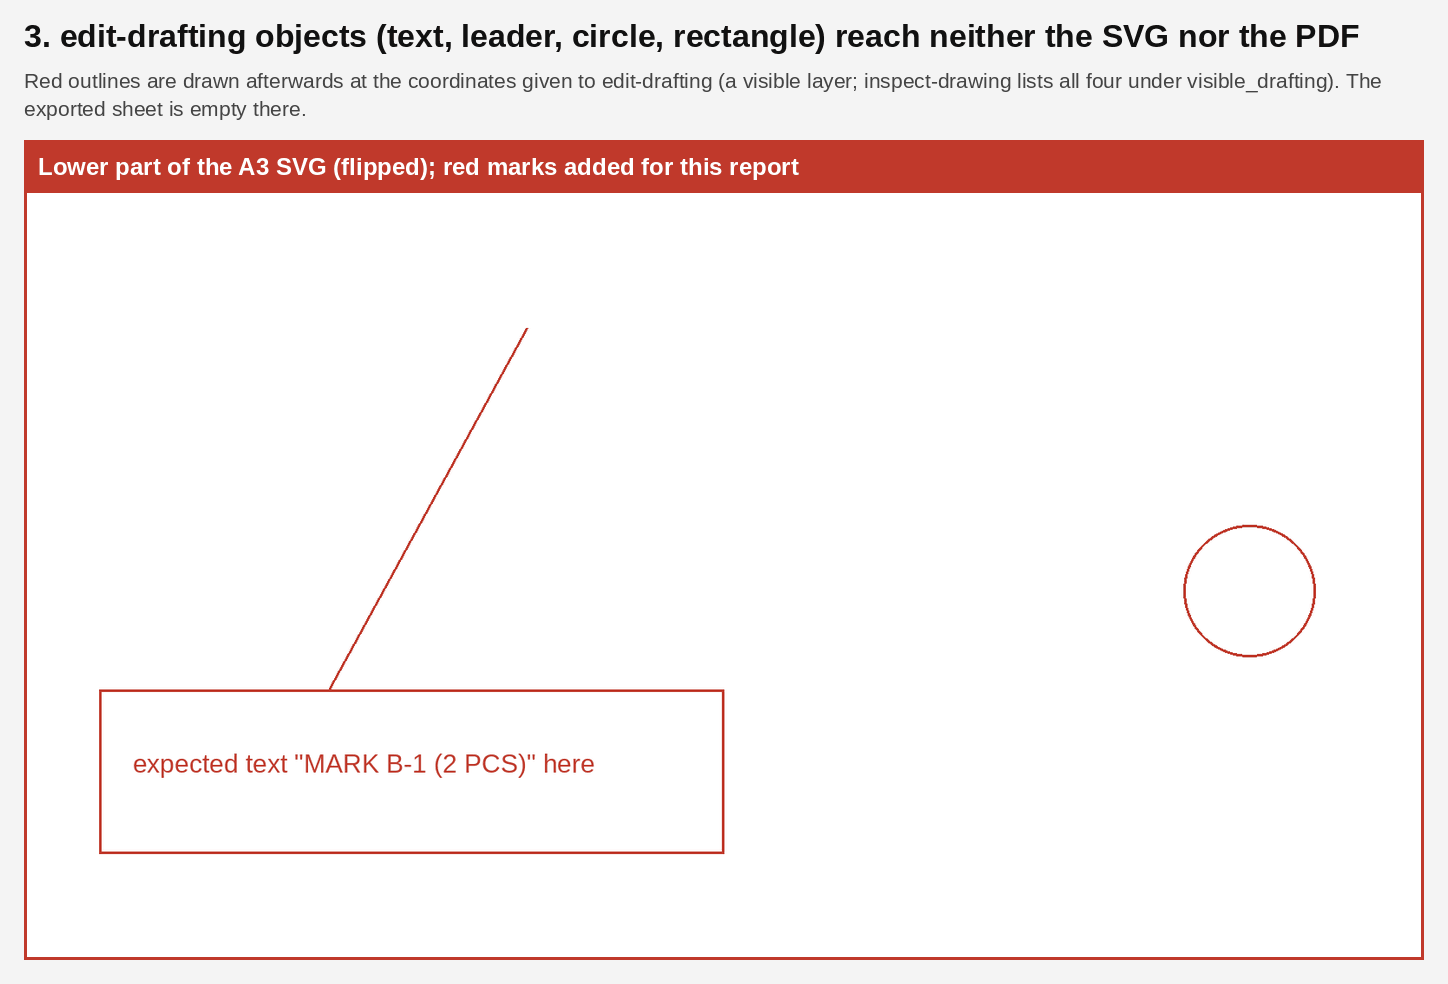
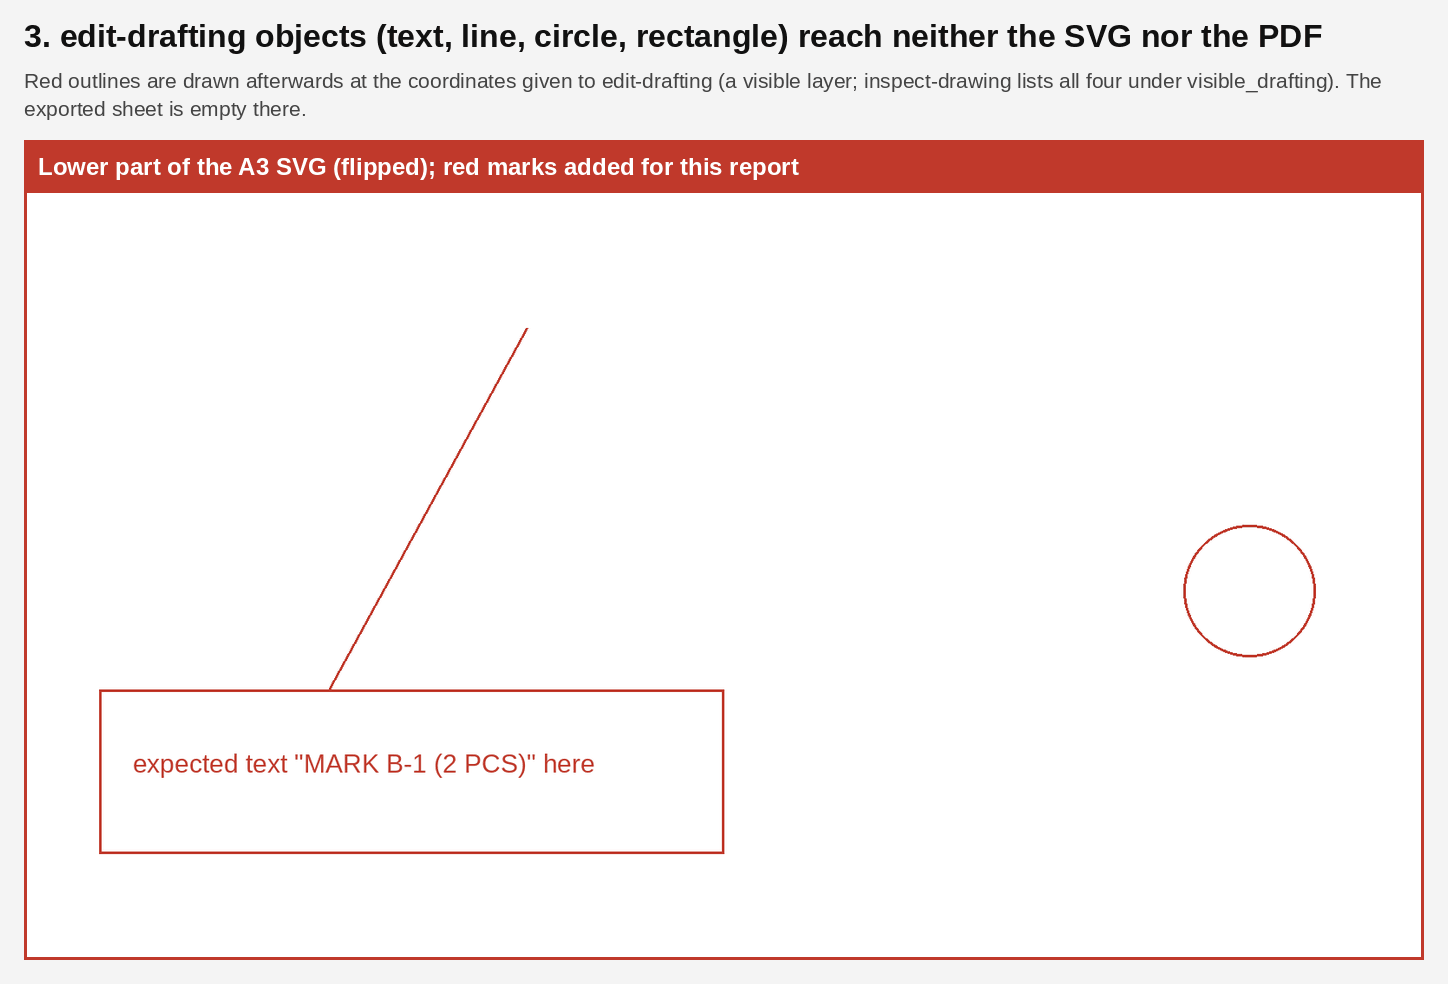
docs: name the drafting kinds and the blank-gap source precisely
Review of #459: edit-drafting has no leader kind, the evidence draws a
line, so finding 3 and the image 05 caption now name the kinds actually
used. The blank-gap advance for characters without a glyph is stated only
in the svg.rs doc comments, not in any contract, so the README cites those
instead. Only image 05 changes; the other nine regenerate byte for byte.

Claude-Session: https://claude.ai/code/session_01HF6nmZaSAaUPS2hxFVJe3p

Changed region(s): [[0.3108, 0.0, 0.9323, 0.061]]

diff --git a/docs/visual-bug-evidence-2026-11-04/README.md b/docs/visual-bug-evidence-2026-11-04/README.md
@@ -45,7 +45,7 @@ Code references are permalinks to the audited commit.
 | --- | --- | --- | --- |
 | 1 | The SVG export is mirrored vertically: the 2500 mm dimension reads **5200**, a title block `SCALE 1:20` reads **1:50**, the title block sits at the top and all text is upside down. The PDF of the same version is upright. | [01](01-svg-mirrored-2500-reads-5200.png), [02](02-sheet-svg-upside-down.png), [03](03-title-block-scale-reads-1-50.png) | Paper coordinates are Y-up ([`projection.rs:103`](https://github.com/axisrow/BeamCraft/blob/b614bb871e7c9d94d247e53b9b0d201a3213cfe6/crates/engine/src/drawing/projection.rs#L103)); the SVG writers emit them unflipped ([`svg.rs:507`](https://github.com/axisrow/BeamCraft/blob/b614bb871e7c9d94d247e53b9b0d201a3213cfe6/crates/engine/src/drawing/svg.rs#L507), [`sheet.rs:283`](https://github.com/axisrow/BeamCraft/blob/b614bb871e7c9d94d247e53b9b0d201a3213cfe6/crates/engine/src/drawing/sheet.rs#L283)) into SVG's Y-down space |
 | 2 | The PDF of a sheet document renders only the primary view: no frame, title block, placed view, section, detail or view titles. `docs/design/d05-drawing-sheets.md` says every export surface renders the same fixed sheet. | [04](04-pdf-drops-sheet-content.png) | The `pdf` branch passes only the primary projection to `print::export` ([`drawing_cmd.rs:1104`](https://github.com/axisrow/BeamCraft/blob/b614bb871e7c9d94d247e53b9b0d201a3213cfe6/apps/beamcraft-cli/src/drawing_cmd.rs#L1104)) |
-| 3 | Objects added with `edit-drafting` on a visible layer (text, leader, circle, rectangle) appear in neither the SVG nor the PDF, although `inspect-drawing` lists them under `visible_drafting`. | [05](05-drafting-not-rendered.png) | No exporter reads [`Drawing::visible_drafting`](https://github.com/axisrow/BeamCraft/blob/b614bb871e7c9d94d247e53b9b0d201a3213cfe6/crates/engine/src/drawing.rs#L587) |
+| 3 | Objects added with `edit-drafting` on a visible layer (text, line, circle, rectangle; the line is drawn towards the text as a leader would be) appear in neither the SVG nor the PDF, although `inspect-drawing` lists them under `visible_drafting`. | [05](05-drafting-not-rendered.png) | No exporter reads [`Drawing::visible_drafting`](https://github.com/axisrow/BeamCraft/blob/b614bb871e7c9d94d247e53b9b0d201a3213cfe6/crates/engine/src/drawing.rs#L587) |
 | 4 | A vertical dimension's label is struck through by its own dimension line ("25\|00"), in SVG and PDF. | [06](06-dimension-line-through-label.png) | The label is always horizontal and centred on the line's midpoint ([`svg.rs:266`](https://github.com/axisrow/BeamCraft/blob/b614bb871e7c9d94d247e53b9b0d201a3213cfe6/crates/engine/src/drawing/svg.rs#L266)) |
 | 5 | View titles overlap the lowest edge of their view (ELEVATION, PLAN, SECTION A-A, DETAIL B). | [07](07-view-title-overlaps-geometry.png) | The 3.0 mm gap is smaller than the 3.5 mm glyph height ([`sheet.rs:34`](https://github.com/axisrow/BeamCraft/blob/b614bb871e7c9d94d247e53b9b0d201a3213cfe6/crates/engine/src/drawing/sheet.rs#L34)) |
 | 6 | The title block has no top edge; its column divider sits 30 mm from the right edge instead of after the label column and strikes through an accepted 40-character project name. | [08](08-title-block-layout.png) | [`sheet.rs:152-163`](https://github.com/axisrow/BeamCraft/blob/b614bb871e7c9d94d247e53b9b0d201a3213cfe6/crates/engine/src/drawing/sheet.rs#L152-L163) |
@@ -62,7 +62,12 @@ instead of help.
 
 Checked and not counted as findings: A3 is portrait by contract; IFC export encodes
 non-ASCII names correctly (`\X2\...\X0\`); characters without a glyph (Cyrillic, `/`, `(`)
-advance a blank gap, as the drawing contract documents.
+advance a blank gap. No contract documents that gap; it is intended exporter behaviour stated
+only in the doc comments of
+[`glyph`](https://github.com/axisrow/BeamCraft/blob/b614bb871e7c9d94d247e53b9b0d201a3213cfe6/crates/engine/src/drawing/svg.rs#L63-L64)
+and
+[`text_strokes`](https://github.com/axisrow/BeamCraft/blob/b614bb871e7c9d94d247e53b9b0d201a3213cfe6/crates/engine/src/drawing/svg.rs#L311-L314)
+in `svg.rs`.
 
 ## Checksums (SHA-256)
 
@@ -71,7 +76,7 @@ advance a blank gap, as the drawing contract documents.
 baf670da7ae55be54246aed42dfb96d8418579914fd2622e1084a6d3e8f535ee  02-sheet-svg-upside-down.png
 4a71a6ec331c55aca0a292b2f721154b5ec9d98113ce4317a8a4deb98579604c  03-title-block-scale-reads-1-50.png
 07ce8cc9cbff4e2ff366dc79a39ed41e74699826ae98350df7e23d5ca76583dc  04-pdf-drops-sheet-content.png
-da07c9a305a928852f70e2d128b4791ee646bf3046420b630881fa34bb7259e8  05-drafting-not-rendered.png
+545ec1f9e16654d9d74da986873a98091149fe3fade06a232fbcc0c698a78f7f  05-drafting-not-rendered.png
 3ae7bbe09ef337fa8bfce89c930d3e126e557918204296c2fc636df7acae00f3  06-dimension-line-through-label.png
 ae682bfd2d9d35ac3da32e4dc0772e4608bb9555a41636065c35498a330010a3  07-view-title-overlaps-geometry.png
 006a9be3a75014fc93abc3e73a65037c1522d9408c671e2718c12ed08bcc50ab  08-title-block-layout.png
